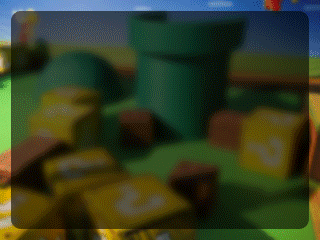
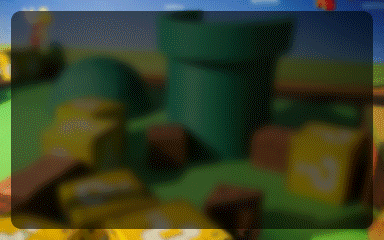
Change RGUI aspect ratio to 16:10
- Adjust spacing for Directory Settings
- Keep smaller messagebox width for sublabels
- Wallpapers renamed from *_16_10 RetroArch files; a few modified
- minor fixes, cleanup

diff --git a/menu/drivers/rgui.c b/menu/drivers/rgui.c
@@ -39,10 +39,10 @@
 #include "shared.h"
 #include "rgui.h"
 
-#define RGUI_TERM_START_X        (frame_buf->width / 21)
+#define RGUI_TERM_START_X        (frame_buf->width / 20)
 #define RGUI_TERM_START_Y        (frame_buf->height / 9)
-#define RGUI_TERM_WIDTH          (((frame_buf->width - RGUI_TERM_START_X - RGUI_TERM_START_X) / (FONT_WIDTH_STRIDE)))
-#define RGUI_TERM_HEIGHT         (((frame_buf->height - RGUI_TERM_START_Y - RGUI_TERM_START_X) / (FONT_HEIGHT_STRIDE)) - 1)
+#define RGUI_TERM_WIDTH          ((frame_buf->width - RGUI_TERM_START_X - RGUI_TERM_START_X) / (FONT_WIDTH_STRIDE))
+#define RGUI_TERM_HEIGHT         ((frame_buf->height - RGUI_TERM_START_Y - RGUI_TERM_START_Y) / (FONT_HEIGHT_STRIDE))
 
 #define NUM_PARTICLES 256
 
@@ -945,8 +945,8 @@ static void rgui_blit_cursor(menu_handle_t *menu)
    int16_t x = menu_input->mouse.x;
    int16_t y = menu_input->mouse.y;
 
-   color_rect(menu, x, y - 5, 1, 11, 0xFFFF);
-   color_rect(menu, x - 5, y, 11, 1, 0xFFFF);
+   color_rect(menu, x, y - 5, 1, 11, rgui_normal_16b);
+   color_rect(menu, x - 5, y, 11, 1, rgui_normal_16b);
 }
 
 static void rgui_render(void)
@@ -955,12 +955,12 @@ static void rgui_render(void)
    size_t i, end;
    int bottom;
    int title_w;
+   size_t len = 0;
    uint16_t color;
    float offset;
    char title[NAME_MAX_LENGTH];
    char title_buf[NAME_MAX_LENGTH];
-   char title_msg[64];
-   char timedate[NAME_MAX_LENGTH];
+   char timedate[32];
    menu_handle_t *menu            = menu_driver_get_ptr();
    menu_input_t *menu_input       = menu_input_get_ptr();
    menu_display_t *disp           = menu_display_get_ptr();
@@ -974,7 +974,6 @@ static void rgui_render(void)
 
    title[0]     = '\0';
    title_buf[0] = '\0';
-   title_msg[0] = '\0';
    timedate[0]  = '\0';
 
    (void)driver;
@@ -1035,30 +1034,35 @@ static void rgui_render(void)
          frame_count, title, true);
 
    if (menu_entries_show_back())
-      blit_line("BACK", 4, RGUI_TERM_START_X, RGUI_TERM_START_X,
+      blit_line("BACK", 4, RGUI_TERM_START_X,
+            RGUI_TERM_START_Y - FONT_HEIGHT_STRIDE,
             0, rgui_title_16b);
 
    blit_line(title_buf, title_w,
          RGUI_TERM_START_X + (RGUI_TERM_WIDTH - strlen(title_buf)) * FONT_WIDTH_STRIDE / 2,
-         RGUI_TERM_START_X,
+         RGUI_TERM_START_Y - FONT_HEIGHT_STRIDE,
          FONT_WIDTH_STRIDE * offset, rgui_title_16b);
 
-   if (settings->menu.core_enable)
+   if (settings->menu.timedate_enable)
    {
-      menu_entries_get_core_title(title_msg, sizeof(title_msg));
-      blit_line(title_msg, 42,
-            RGUI_TERM_START_X,
+      len = menu_display_timedate(timedate, sizeof(timedate), 3);
+      blit_line(timedate, len,
+            RGUI_WIDTH - RGUI_TERM_START_X - len * FONT_WIDTH_STRIDE,
             (RGUI_TERM_HEIGHT * FONT_HEIGHT_STRIDE) + RGUI_TERM_START_Y + 2,
             0, rgui_hover_16b);
    }
 
-   if (settings->menu.timedate_enable)
+   if (settings->menu.core_enable)
    {
-      menu_display_timedate(timedate, sizeof(timedate), 3);
-      blit_line(timedate, 5,
-            RGUI_TERM_WIDTH * FONT_WIDTH_STRIDE - RGUI_TERM_START_X,
+      menu_entries_get_core_title(title, sizeof(title));
+      title_w = RGUI_TERM_WIDTH - len - 2;
+      offset = menu_animation_ticker_line(title_buf,
+            title_w, frame_count, title, true);
+
+      blit_line(title_buf, title_w,
+            RGUI_TERM_START_X,
             (RGUI_TERM_HEIGHT * FONT_HEIGHT_STRIDE) + RGUI_TERM_START_Y + 2,
-            0, rgui_hover_16b);
+            FONT_WIDTH_STRIDE * offset, rgui_hover_16b);
    }
 
    title_x = RGUI_TERM_START_X + FONT_WIDTH_STRIDE * 2;
@@ -1169,7 +1173,7 @@ static void *rgui_init(void)
 
    frame_buf->width                   = RGUI_WIDTH;
    frame_buf->height                  = RGUI_HEIGHT;
-   menu->display.header_height        = FONT_HEIGHT_STRIDE * 2;
+   menu->display.header_height        = FONT_HEIGHT_STRIDE * 2 + 1;
    frame_buf->pitch                   = frame_buf->width * sizeof(uint16_t);
 
    menu_entries_set_start(0);

diff --git a/menu/menu_hash.h b/menu/menu_hash.h
@@ -175,12 +175,6 @@ extern "C" {
 #define MENU_LABEL_AUDIO_RESAMPLER_DRIVER_CC                                   0x0059732bU
 #define MENU_LABEL_AUDIO_RESAMPLER_DRIVER_NEAREST                              0x09fa48d7U
 
-#define MENU_LABEL_SAVEFILE_DIRECTORY                                          0x92773488U
-#define MENU_LABEL_SAVESTATE_DIRECTORY                                         0x90551289U
-#define MENU_LABEL_ASSETS_DIRECTORY                                            0xde1ae8ecU
-#define MENU_LABEL_DYNAMIC_WALLPAPERS_DIRECTORY                                0x62f975b8U
-#define MENU_LABEL_BOXARTS_DIRECTORY                                           0x9e2bdbddU
-
 #define MENU_LABEL_SLOWMOTION_RATIO                                            0x626b3ffeU
 #define MENU_LABEL_INPUT_AXIS_THRESHOLD                                        0xe95c2095U
 #define MENU_LABEL_INPUT_AUTODETECT_ENABLE                                     0xb1e07facU
@@ -308,14 +302,16 @@ extern "C" {
 #define MENU_LABEL_RGUI_BROWSER_DIRECTORY                                      0xa86cba73U
 #define MENU_LABEL_CORE_ASSETS_DIRECTORY                                       0x8ba5ee54U
 #define MENU_LABEL_CONTENT_DIRECTORY                                           0x7738dc14U
+#define MENU_LABEL_CORE_CONTENT_DIRECTORY                                      0xd6c1ceefU
+#define MENU_LABEL_CORE_CONTENT_DIRECTORY_QUICKSET                             0x10bf7ab6U
 #define MENU_LABEL_SCREENSHOT_DIRECTORY                                        0x552612d7U
 #define MENU_LABEL_INPUT_REMAPPING_DIRECTORY                                   0x5233c20bU
 #define MENU_LABEL_VIDEO_SHADER_DIR                                            0x30f53b10U
 #define MENU_LABEL_VIDEO_FILTER_DIR                                            0x67603f1fU
 #define MENU_LABEL_AUDIO_FILTER_DIR                                            0x4bd96ebaU
 #define MENU_LABEL_SAVESTATE_DIRECTORY                                         0x90551289U
-#define MENU_LABEL_LIBRETRO_DIR_PATH                                           0x1af1eb72U
 #define MENU_LABEL_LIBRETRO_INFO_PATH                                          0xe552b25fU
+#define MENU_LABEL_MENU_THEME_DIRECTORY                                        0x416e1fe0U
 #define MENU_LABEL_RGUI_CONFIG_DIRECTORY                                       0x0cb3e005U
 #define MENU_LABEL_SAVEFILE_DIRECTORY                                          0x92773488U
 #define MENU_LABEL_OVERLAY_DIRECTORY                                           0xc4ed3d1bU
@@ -323,6 +319,7 @@ extern "C" {
 #define MENU_LABEL_ASSETS_DIRECTORY                                            0xde1ae8ecU
 #define MENU_LABEL_EXTRACTION_DIRECTORY                                        0x33b55ffaU
 #define MENU_LABEL_JOYPAD_AUTOCONFIG_DIR                                       0x2f4822d8U
+#define MENU_LABEL_DYNAMIC_WALLPAPERS_DIRECTORY                                0x62f975b8U
 #define MENU_LABEL_DRIVER_SETTINGS                                             0x81cd2d62U
 #define MENU_LABEL_CORE_SETTINGS                                               0x06795dffU
 #define MENU_LABEL_CONFIGURATION_SETTINGS                                      0x5a1558ceU

diff --git a/menu/cbs/menu_cbs_get_value.c b/menu/cbs/menu_cbs_get_value.c
@@ -831,6 +831,22 @@ static void menu_action_setting_disp_set_label_menu_file_cheat(
          path, "(CHEAT)", s2, len2);
 }
 
+static void menu_action_setting_disp_set_label_directory_setting(file_list_t* list,
+      unsigned *w, unsigned type, unsigned i,
+      const char *label,
+      char *s, size_t len,
+      const char *entry_label,
+      const char *path,
+      char *s2, size_t len2)
+{
+   *s = '\0';
+   *w = 24;
+
+   setting_get_label(list, s, len, w, type, label, entry_label, i);
+
+   strlcpy(s2, path, len2);
+}
+
 static void menu_action_setting_disp_set_label(file_list_t* list,
       unsigned *w, unsigned type, unsigned i,
       const char *label,
@@ -983,12 +999,42 @@ static int menu_cbs_init_bind_get_string_representation_compare_label(
          cbs->action_get_value =
             menu_action_setting_disp_set_label_joykbd_input_desc;
          break;
+      case MENU_LABEL_OSK_OVERLAY_DIRECTORY:
+      case MENU_LABEL_RECORDING_OUTPUT_DIRECTORY:
+      case MENU_LABEL_RECORDING_CONFIG_DIRECTORY:
+      case MENU_LABEL_RGUI_BROWSER_DIRECTORY:
+      case MENU_LABEL_CORE_ASSETS_DIRECTORY:
+      case MENU_LABEL_CONTENT_DIRECTORY:
+      case MENU_LABEL_CORE_CONTENT_DIRECTORY:
+      case MENU_LABEL_CORE_CONTENT_DIRECTORY_QUICKSET:
+      case MENU_LABEL_SCREENSHOT_DIRECTORY:
+      case MENU_LABEL_INPUT_REMAPPING_DIRECTORY:
+      case MENU_LABEL_SAVESTATE_DIRECTORY:
+      case MENU_LABEL_RGUI_CONFIG_DIRECTORY:
+      case MENU_LABEL_SAVEFILE_DIRECTORY:
+      case MENU_LABEL_OVERLAY_DIRECTORY:
+      case MENU_LABEL_SYSTEM_DIRECTORY:
+      case MENU_LABEL_ASSETS_DIRECTORY:
+      case MENU_LABEL_EXTRACTION_DIRECTORY:
+      case MENU_LABEL_DYNAMIC_WALLPAPERS_DIRECTORY:
+      case MENU_LABEL_JOYPAD_AUTOCONFIG_DIR:
+      case MENU_LABEL_LIBRETRO_DIR_PATH:
+      case MENU_LABEL_AUDIO_FILTER_DIR:
+      case MENU_LABEL_VIDEO_FILTER_DIR:
+      case MENU_LABEL_VIDEO_SHADER_DIR:
+      case MENU_LABEL_LIBRETRO_INFO_PATH:
+      case MENU_LABEL_MENU_THEME_DIRECTORY:
+      case MENU_LABEL_CHEAT_DATABASE_PATH:
+         cbs->action_get_value =
+            menu_action_setting_disp_set_label_directory_setting;
+         break;
       case MENU_LABEL_INPUT_REMAPPING:
       case MENU_LABEL_DISK_CONTROL:
       case MENU_LABEL_VIDEO_SHADER_PARAMETERS:
       case MENU_LABEL_OPTIONS_FILE_LOAD:
       case MENU_LABEL_REMAP_FILE_LOAD:
       case MENU_LABEL_CORE_OPTION_CATEGORY:
+      case MENU_LABEL_CORE_CHEAT_OPTIONS:
          cbs->action_get_value =
             menu_action_setting_disp_set_label_menu_more;
          break;

diff --git a/menu/menu_display.c b/menu/menu_display.c
@@ -297,7 +297,7 @@ void menu_display_unset_viewport(void)
          height, false, true);
 }
 
-void menu_display_timedate(char *s, size_t len, unsigned time_mode)
+size_t menu_display_timedate(char *s, size_t len, unsigned time_mode)
 {
    time_t time_;
    time(&time_);
@@ -305,16 +305,16 @@ void menu_display_timedate(char *s, size_t len, unsigned time_mode)
    switch (time_mode)
    {
       case 0: /* Date and time */
-         strftime(s, len, "%Y-%m-%d %H:%M:%S", localtime(&time_));
-         break;
+         return strftime(s, len, "%Y-%m-%d %H:%M:%S", localtime(&time_));
       case 1: /* Date */
-         strftime(s, len, "%Y-%m-%d", localtime(&time_));
-         break;
+         return strftime(s, len, "%Y-%m-%d", localtime(&time_));
       case 2: /* Time */
-         strftime(s, len, "%H:%M:%S", localtime(&time_));
-         break;
+         return strftime(s, len, "%H:%M:%S", localtime(&time_));
       case 3: /* Time (hours-minutes) */
-         strftime(s, len, "%H:%M", localtime(&time_));
+         return strftime(s, len, "%H:%M", localtime(&time_));
+      default:
          break;
    }
+
+   return 0;
 }

diff --git a/dynamic_dummy.c b/dynamic_dummy.c
@@ -19,6 +19,7 @@
 #include <stdint.h>
 #include <stdlib.h>
 #include <string.h>
+#include "menu/drivers/rgui.h"
 
 static uint16_t *frame_buf;
 
@@ -63,11 +64,11 @@ void libretro_dummy_retro_get_system_av_info(
    info->timing.fps = 60.0;
    info->timing.sample_rate = 30000.0;
 
-   info->geometry.base_width  = 320;
-   info->geometry.base_height = 240;
-   info->geometry.max_width   = 320;
-   info->geometry.max_height  = 240;
-   info->geometry.aspect_ratio = 4.0 / 3.0;
+   info->geometry.base_width  = RGUI_WIDTH;
+   info->geometry.base_height = RGUI_HEIGHT;
+   info->geometry.max_width   = RGUI_WIDTH;
+   info->geometry.max_height  = RGUI_HEIGHT;
+   info->geometry.aspect_ratio = RGUI_WIDTH / (float)RGUI_HEIGHT;
 }
 
 static retro_video_refresh_t dummy_video_cb;

diff --git a/menu/menu_driver.c b/menu/menu_driver.c
@@ -406,7 +406,6 @@ void menu_driver_wrap_text(char *buf, const unsigned msg_len,
 void menu_driver_sublabel_to_messagebox(char *buf, const char *text,
       const char *title, const unsigned buf_size)
 {
-   global_t *global  = global_get_ptr();
    int last_nonspace = 0;
    int j = 0;
    int msg_start, i;
@@ -437,8 +436,7 @@ void menu_driver_sublabel_to_messagebox(char *buf, const char *text,
 
    buf[i] = '\0';
 
-   menu_driver_wrap_text(buf + msg_start, i - msg_start,
-         global->menu.msg_box_width);
+   menu_driver_wrap_text(buf + msg_start, i - msg_start, 48);
 }
 
 void menu_driver_render_messagebox(const char *msg)

diff --git a/configuration.c b/configuration.c
@@ -601,7 +601,7 @@ static void config_set_defaults(void)
    settings->menu.show_recording_menu          = show_recording_menu;
    settings->menu.show_core_updater_menu       = show_core_updater_menu;
 
-   global->menu.msg_box_width                  = 48;  /* RGUI 4:3 */
+   global->menu.msg_box_width                  = 57;  /* RGUI 16:10 */
 
    settings->ui.companion_start_on_boot             = true;
    settings->ui.menubar_enable                      = true;

diff --git a/menu/menu_setting.c b/menu/menu_setting.c
@@ -8002,7 +8002,7 @@ static bool setting_append_list_directory_options(
    {
       CONFIG_DIR(
             settings->core_content_directory,
-            "core_broswer_dir",
+            "core_browser_dir",
             "Core ROM Directory",
             "",
             "<default>",

diff --git a/menu/menu_display.h b/menu/menu_display.h
@@ -102,7 +102,7 @@ void menu_display_set_viewport(void);
 
 void menu_display_unset_viewport(void);
 
-void menu_display_timedate(char *s, size_t len, unsigned time_mode);
+size_t menu_display_timedate(char *s, size_t len, unsigned time_mode);
 
 #ifdef __cplusplus
 }

diff --git a/menu/drivers/rgui.h b/menu/drivers/rgui.h
@@ -15,7 +15,7 @@
 #ifndef RGUI_H
 #define RGUI_H
 
-#define RGUI_WIDTH 320
+#define RGUI_WIDTH 384
 #define RGUI_HEIGHT 240
 
 enum rgui_particle_animation_effect
